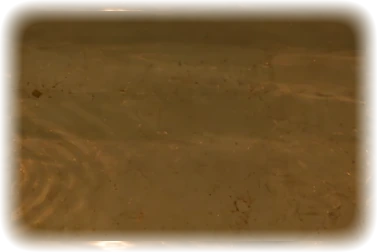
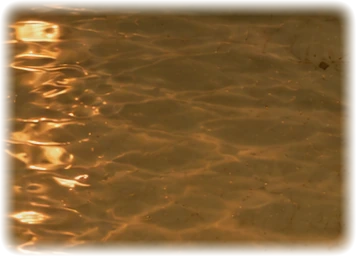
Gummiente und Wasser ablassen

diff --git a/quest-ostern.html b/quest-ostern.html
@@ -352,7 +352,8 @@
     { id: 'sessel_nah', istNah: true, name: 'Anfisas Sessel', bild: 'bilder/sessel-nah.webp', breite: 1774, hoehe: 887 },
     { id: 'tisch_nah',  istNah: true, name: 'Couchtisch',      bild: 'bilder/tisch-nah.webp',  breite: 1774, hoehe: 887 },
     { id: 'becken_nah', istNah: true, name: 'Waschbecken',      bild: 'bilder/becken-nah.webp', breite: 1774, hoehe: 887 },
-    { id: 'wanne_nah',  istNah: true, name: 'Badewanne',        bild: 'bilder/wanne-nah.webp',  breite: 1774, hoehe: 887 }
+    { id: 'wanne_nah',  istNah: true, name: 'Badewanne',        bild: 'bilder/wanne-nah.webp',  breite: 1774, hoehe: 887 },
+    { id: 'ente_nah',   istNah: true, name: 'Gummiente — von unten', bild: 'bilder/ente-nah.webp', breite: 926, hoehe: 940 }
   ];
 
   // Gegenstände im Inventar. nah = ID der Nahansicht, die ein Klick darauf öffnet.
@@ -369,7 +370,7 @@
     { id: 'feuerzeug',  symbol: '🔥', name: 'Feuerzeug', text: 'Ein abgegriffenes Feuerzeug. Tut es noch.' },
     { id: 'sicherung',  symbol: '🧯', name: 'Sicherung', text: 'Eine Schraubsicherung aus Porzellan. Sieht unverbraucht aus.' },
     { id: 'hammer',     symbol: '🔨', name: 'Hammer',    text: 'Anfisas Hammer. Schwer, der Stiel ist speckig vom vielen Anfassen.' },
-    { id: 'ente',       symbol: '🦆', name: 'Ente',      text: 'Eine Gummiente mit Fellmütze und rotem Stern. Sie quietscht, wenn man sie drückt.' }
+    { id: 'ente',       symbol: '🦆', name: 'Ente',      nah: 'ente_nah', text: 'Eine Gummiente mit Fellmütze und rotem Stern. Sie quietscht, wenn man sie drückt.' }
   ];
 
   const WEGE = [
@@ -647,11 +648,11 @@
     { id: 'ba_wanne', ansicht: 'bad', x: 1090, y: 525, w: 380, h: 340, typ: 'naehe', nah: 'wanne_nah',
       nichtWenn: 'wanne_leer', label: 'Badewanne' },
     // --- Badewanne von nahem ---
-    { id: 'wn_ente', ansicht: 'wanne_nah', x: 740, y: 310, w: 180, h: 180, typ: 'nehmen', zustand: 'ente_weg',
+    { id: 'wn_ente', ansicht: 'wanne_nah', x: 820, y: 330, w: 240, h: 230, typ: 'nehmen', zustand: 'ente_weg',
       gibt: 'ente', label: 'Gummiente',
       // Grundbild zeigt die Ente. Der Flicken ist das Wasser OHNE sie und kommt
       // erst, wenn man sie genommen hat — also kein patchNicht.
-      patch: 'bilder/wanne-ohne-ente.webp', patchX: 679, patchY: 294, patchW: 377, patchH: 252 },
+      patch: 'bilder/wanne-ohne-ente.webp', patchX: 762, patchY: 322, patchW: 356, patchH: 256 },
     { id: 'wn_stoepsel', ansicht: 'wanne_nah', x: 150, y: 360, w: 300, h: 200, typ: 'ausschnitt', zustand: 'wanne_leer',
       klang: 'stoff', zurueck: true, label: 'Stöpsel' },
     // --- Dachboden (noch Platzhalter-Geometrie) ---
